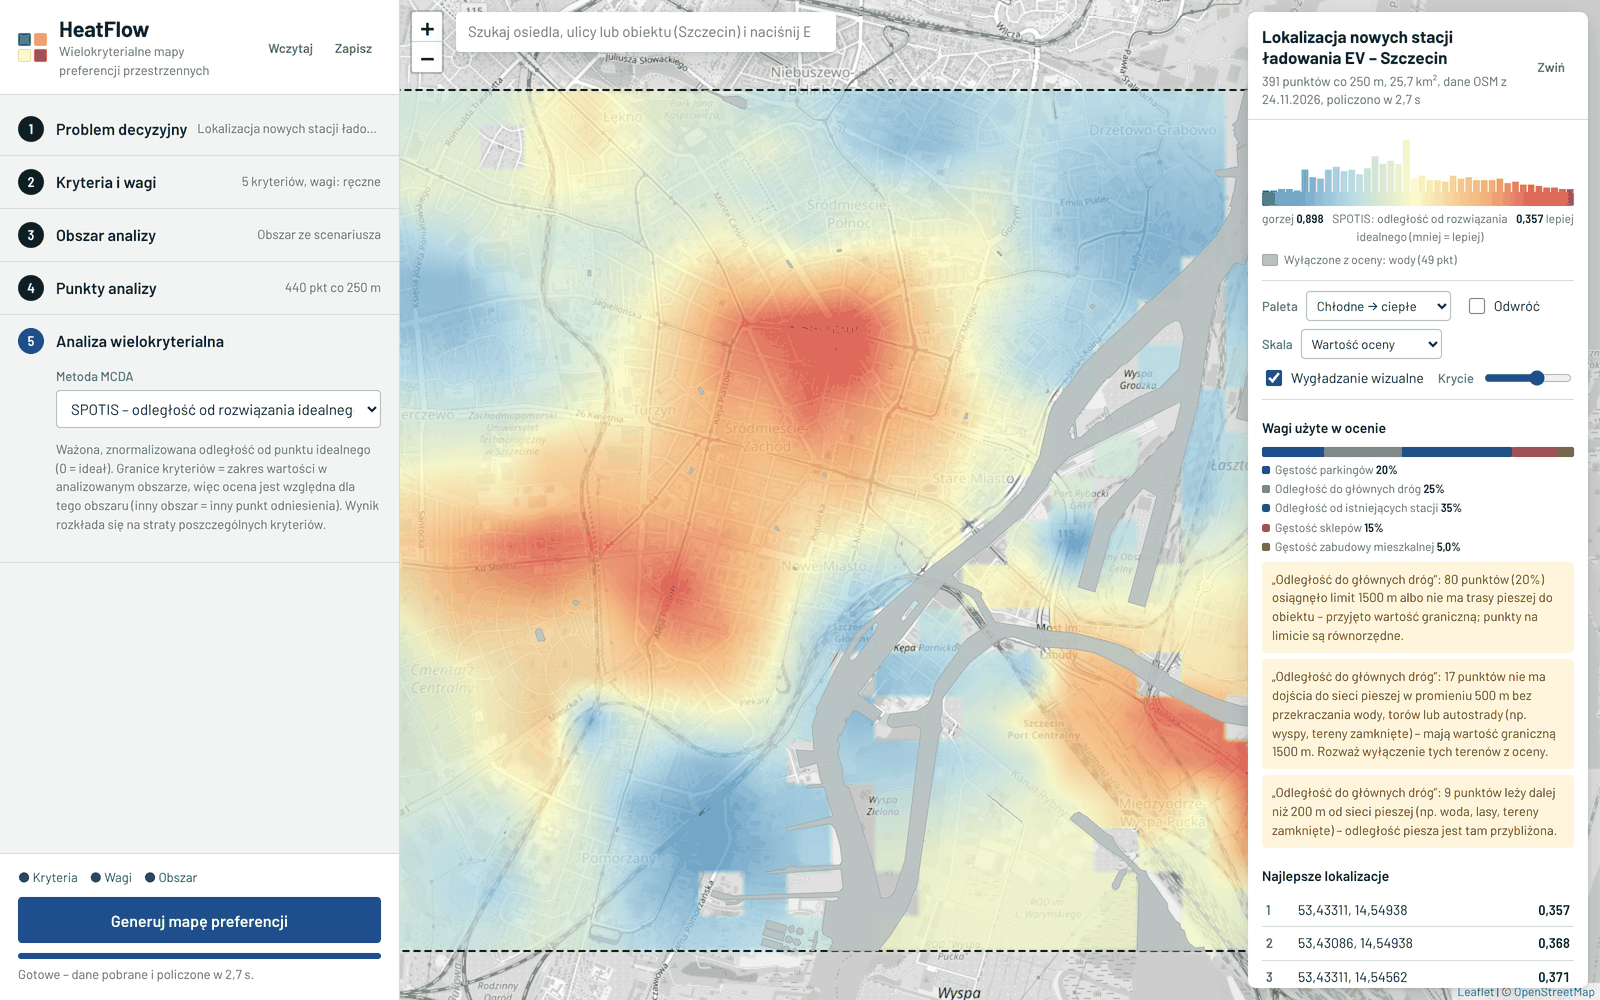
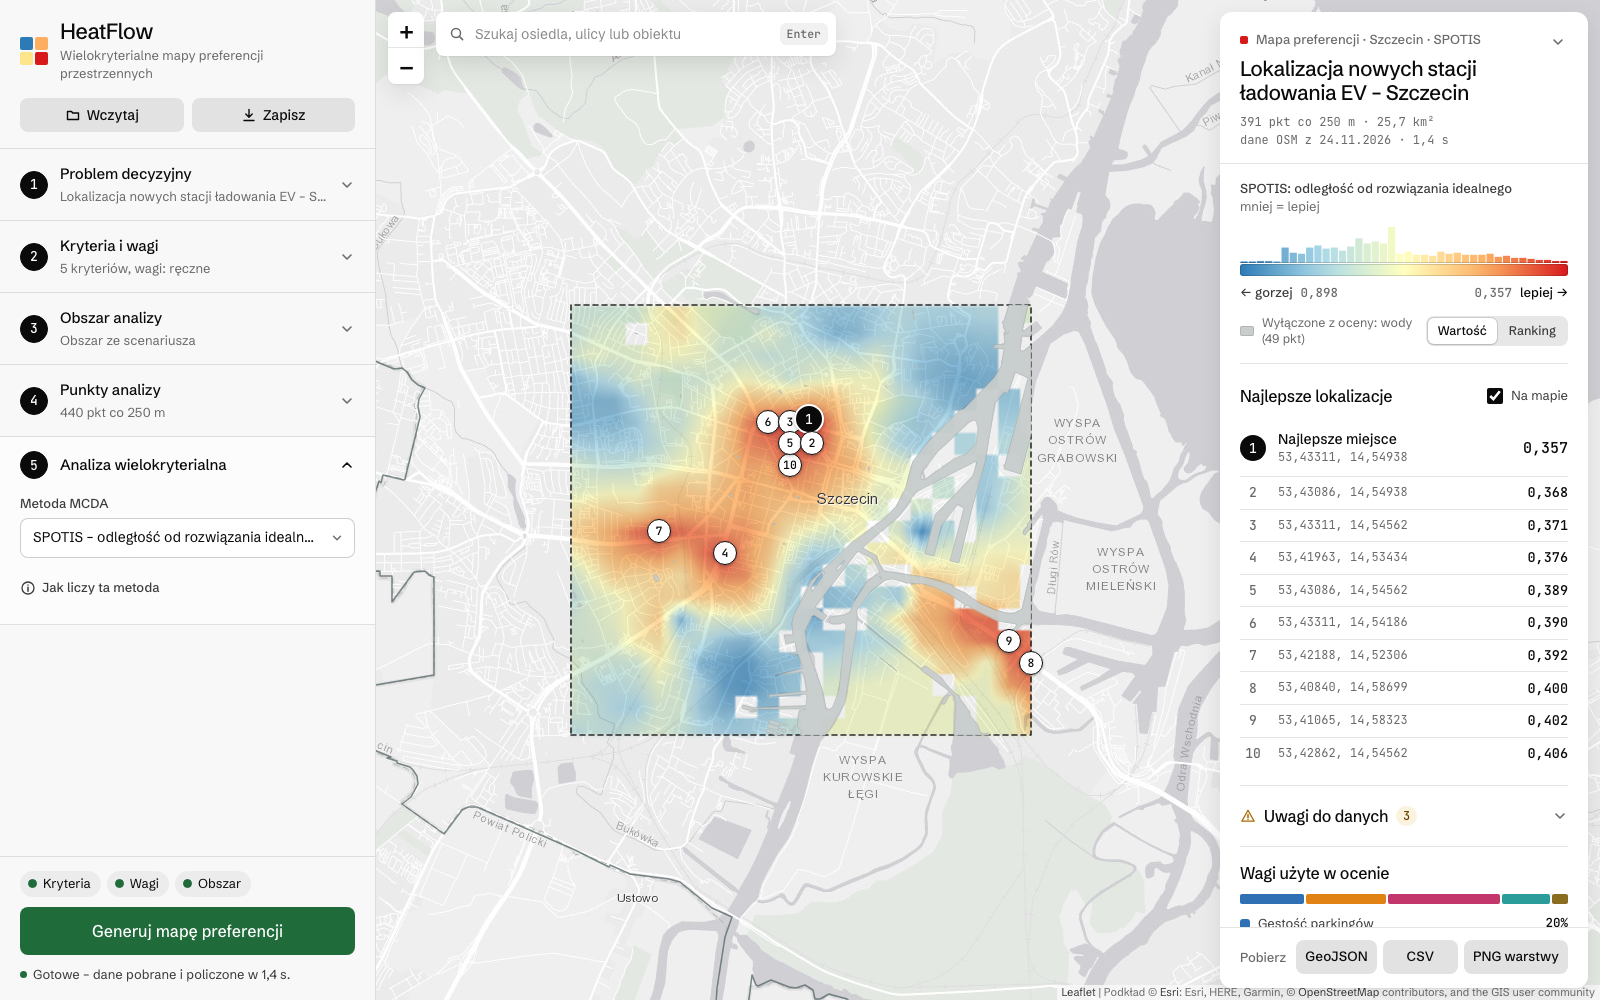
Dokumentacja 2.1 i powrót do palety chłodne → ciepłe
- Wszystkie zrzuty w README i docs/instrukcja.md wykonane na nowym interfejsie
  (te same scenariusze z examples/, prawdziwe dane Szczecina).
- Animacja zmiany wagi parków odtworzona w nowym stylu.
- Domyślna paleta mapy znowu „Chłodne → ciepłe”; „Natężenie” zostaje do wyboru.
- Instrukcja: legenda i przełącznik Wartość / Ranking, ranking pod legendą,
  pasek Pobierz, sekcje Wyświetlanie i Uwagi do danych.
- README: nowe punkty w Co jeszcze potrafi, atrybucja podkładu Esri.

diff --git a/web/app.js b/web/app.js
@@ -9,9 +9,10 @@
   const CRIT_COLORS = ["#2f6fb3", "#e08214", "#c2366b", "#2a9d9a", "#8a6d1f", "#4d4d4d", "#d4542b", "#5a8a2e",
     "#7fb0e0", "#b07a52", "#e2b42c", "#8c2f2f", "#5fbfa8", "#9a9a9a", "#1d3f6e"];
   const PALETTES = {
-    // domyślna: sekwencyjna, im ciemniej, tym lepiej; słabe obszary są półprzezroczyste, więc mapa pod nimi zostaje czytelna
-    intensity: { name: "Natężenie: jasne → ciemne", stops: ["#f7f0dc", "#f8d68e", "#f2a457", "#dd6431", "#b2321e", "#6e1611"], fade: true },
+    // domyślna: chłodne → ciepłe (im cieplej, tym lepiej)
     heat: { name: "Chłodne → ciepłe", stops: ["#2c7bb6", "#abd9e9", "#ffffbf", "#fdae61", "#d7191c"] },
+    // sekwencyjna, im ciemniej, tym lepiej; słabe obszary są półprzezroczyste
+    intensity: { name: "Natężenie: jasne → ciemne", stops: ["#f7f0dc", "#f8d68e", "#f2a457", "#dd6431", "#b2321e", "#6e1611"], fade: true },
     rdylgn: { name: "Czerwony → zielony", stops: ["#d73027", "#fc8d59", "#fee08b", "#d9ef8b", "#91cf60", "#1a9850"] },
     viridis: { name: "Viridis", stops: ["#440154", "#3b528b", "#21918c", "#5ec962", "#fde725"] },
     magma: { name: "Magma", stops: ["#000004", "#51127c", "#b73779", "#fc8961", "#fcfdbf"] },
@@ -27,7 +28,7 @@
     weights: { mode: "manual", objective: "entropy", manual: {}, ranking: {}, scoring: {}, answers: {}, rancomInput: "pairs", rancomResult: null },
     area: null, areaLabel: "",
     spacing: "auto", maxDistance: 1500, method: "spotis", exclude: ["water"],
-    display: { palette: "intensity", reverse: false, opacity: 0.85, smooth: true, scale: "value" },
+    display: { palette: "heat", reverse: false, opacity: 0.85, smooth: true, scale: "value" },
     job: null, result: null, resultSig: null, resultCriteria: null, evaluation: null,
   };
   let uidSeq = 1;

diff --git a/docs/instrukcja.md b/docs/instrukcja.md
@@ -36,11 +36,11 @@ Otwórz **Analiza wielokryterialna**. Na początek zostaw metodę **SPOTIS** i k
 
 ## 6. Sprawdź wynik i zapisz go
 
-Odczytaj kolory z legendy po prawej. Słupki nad skalą pokazują, ile punktów uzyskało podobny wynik. Kliknij kolorowy fragment mapy, aby sprawdzić wartości dla najbliższego punktu siatki. W kolumnie **Strata** pełny pasek oznacza najgorszą wartość danego kryterium w ocenianym obszarze.
+Odczytaj kolory z legendy po prawej: im cieplej, tym lepiej. Słupki nad skalą pokazują, ile punktów uzyskało podobny wynik. Przełącznikiem **Wartość / Ranking** zmienisz skalę z wyniku metody na pozycję w rankingu. Kliknij kolorowy fragment mapy, aby sprawdzić wartości dla najbliższego punktu siatki. W kolumnie **Strata** pełny pasek oznacza najgorszą wartość danego kryterium w ocenianym obszarze.
 
 ![Wynik jednego punktu, wartości kryteriów i paski strat](../assets/screenshots/06-szczegoly-punktu.png)
 
-Przewiń panel wyników do **Najlepsze lokalizacje**. Kliknij wiersz, aby przybliżyć miejsce. Niżej wybierz **CSV**, aby pobrać tabelę, **GeoJSON**, aby otworzyć punkty w programie mapowym, lub **PNG warstwy**, aby zapisać samą kolorową warstwę. Przycisk **Zapisz** u góry po lewej pobiera ustawienia analizy. Możesz je później otworzyć przez **Wczytaj**.
+Zaraz pod legendą jest lista **Najlepsze lokalizacje**. Kliknij wiersz, aby przybliżyć miejsce i otworzyć jego szczegóły. W pasku **Pobierz** na dole panelu wybierz **CSV**, aby pobrać tabelę, **GeoJSON**, aby otworzyć punkty w programie mapowym, lub **PNG warstwy**, aby zapisać samą kolorową warstwę. Przycisk **Zapisz** u góry po lewej pobiera ustawienia analizy. Możesz je później otworzyć przez **Wczytaj**.
 
 ![Opcje pobierania wyników i przycisk zapisu scenariusza](../assets/screenshots/08-eksport.png)
 
@@ -48,8 +48,8 @@ Przewiń panel wyników do **Najlepsze lokalizacje**. Kliknij wiersz, aby przybl
 
 **Dlaczego część mapy jest szara?** Szare wypełnienie wewnątrz obszaru oznacza tereny wyłączone z oceny, np. wodę. Przy legendzie znajdziesz liczbę pominiętych punktów.
 
-**Czy czerwony zawsze oznacza dobre miejsce?** Znaczenie koloru zależy od palety. Szukaj koloru podpisanego „lepiej” po prawej stronie legendy. Możesz zmienić paletę lub odwrócić kolory.
+**Czy czerwony zawsze oznacza dobre miejsce?** W domyślnej palecie tak. Po zmianie palety szukaj koloru podpisanego „lepiej” po prawej stronie legendy. Paletę i odwrócenie kolorów zmienisz w sekcji **Wyświetlanie** w panelu wyników.
 
 **Jak sprawdzić inne wagi?** Wróć do kroku 2 i zmień wagi. Mapa przeliczy oceny na podstawie już pobranych danych. Po zmianie obszaru, zestawu kryteriów lub rozstawu siatki ponownie kliknij **Generuj mapę preferencji**.
 
-**Co oznacza „≥ 1500 m” przy odległości?** To limit zastosowany w przykładzie. Odległości od tej granicy wzwyż są traktowane jednakowo. Przy dojściu pieszym taką wartość może też dostać punkt bez trasy w zasięgu limitu. Sprawdź ostrzeżenia w panelu wyników.
+**Co oznacza „≥ 1500 m” przy odległości?** To limit zastosowany w przykładzie. Odległości od tej granicy wzwyż są traktowane jednakowo. Przy dojściu pieszym taką wartość może też dostać punkt bez trasy w zasięgu limitu. Sprawdź sekcję **Uwagi do danych** w panelu wyników.

diff --git a/README.md b/README.md
@@ -35,7 +35,7 @@ Wybierasz obszar i ustalasz, co jest ważne. HeatFlow ocenia miejsca na mapie i 
   <img src="assets/screenshots/zmiana-wagi.gif" alt="Po zwiększeniu wagi kryterium Parki miejsca bliżej parków na Pogodnie zyskują na mapie oceny." width="100%">
 </p>
 
-[Otwórz animację](assets/screenshots/zmiana-wagi.gif) · [Zobacz instrukcję krok po kroku](docs/instrukcja.md)
+[Zobacz instrukcję krok po kroku](docs/instrukcja.md)
 
 ## Przykłady
 
@@ -56,6 +56,8 @@ Każdy przykład to gotowy scenariusz z [`examples/`](examples/), który otwiera
 
 - **Odległość pieszo**, liczona po chodnikach i ścieżkach, albo w linii prostej.
 - **Wyjaśnienie wyniku**: po kliknięciu w mapę widać, które kryterium podniosło, a które obniżyło ocenę.
+- **Czytelna mapa**: nazwy ulic i osiedli są widoczne nad kolorami oceny, a paletę można zmienić jednym kliknięciem.
+- **Ranking pod ręką**: 10 najlepszych miejsc jest od razu pod legendą, a skalę można przełączyć między wynikiem metody a pozycją w rankingu.
 - **Pomijanie terenów** takich jak woda, lasy czy cmentarze.
 - **Eksport** do GeoJSON, CSV i PNG oraz zapis całej analizy do pliku, żeby wrócić do niej później.
 - **Działa lokalnie**: dane Szczecina z OpenStreetMap są na Twoim komputerze, analiza całego miasta trwa kilka–kilkanaście sekund.
@@ -95,4 +97,4 @@ uv run heatflow serve --port 5050   # otwórz http://127.0.0.1:5050
 
 Gotowe przykłady są w pierwszym kroku aplikacji (przyciski **Przykład: …**). Własne analizy zapisuje się i otwiera przyciskami **Zapisz** i **Wczytaj**.
 
-<sub>Kod na licencji [MIT](LICENSE). Dane mapy © współtwórcy OpenStreetMap, licencja ODbL.</sub>
+<sub>Kod na licencji [MIT](LICENSE). Dane mapy © współtwórcy OpenStreetMap, licencja ODbL. Podkład mapy: Esri Light Gray Canvas.</sub>
